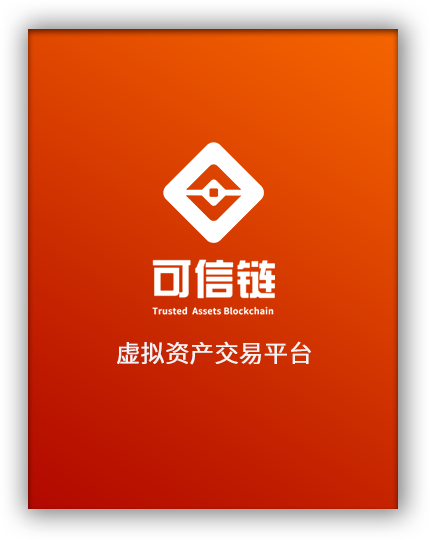
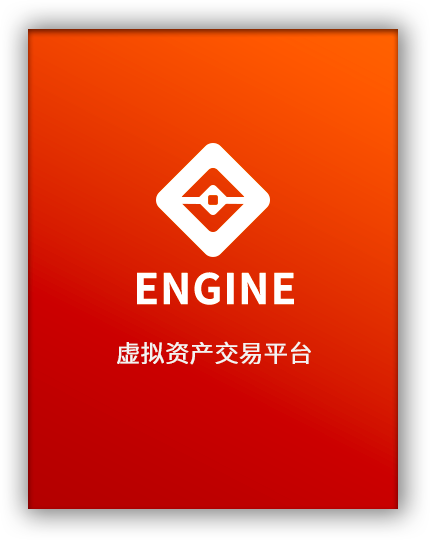
更改登录、注册、忘记密码、hearder、footer图标，更改hearder、footer样式，全项目可信链文字修改为ENGIN

Changed region(s): [[0.0605, 0.2667, 0.9372, 0.9481]]

diff --git a/src/App.vue b/src/App.vue
@@ -3,12 +3,12 @@
     <div class="head-wrap" v-if="isShowTopSearch">
       <div class="head">
         <a class="logo" href="/">
-          <p>Trusted Assets Blockchain</p>
+          <!--<p>Trusted Assets Blockchain</p>-->
         </a>
         <ul class="platform">
           <li v-for="(item,index) of toggleParam" @click="platform(index)" :class="{active:index===toggleIndex}">{{item}}</li>
         </ul>
-        <a href="/">欢迎来到 可信链 ！</a>
+        <a href="/">欢迎来到 ENGINE ！</a>
         <div class="favorite" @click="turnFavorite">
           <span class="s_text">收藏夹</span>
           <span class="s_num">{{this.$store.state.favoriteCount}}</span>
@@ -63,7 +63,7 @@
       <div class="footer">
         <div class="ft-box">
           <a href="/">
-            <p>Trusted Assets Blockchain</p>
+            <!--<p>Trusted Assets Blockchain</p>-->
           </a>
         </div>
         <div class="ft-box">
@@ -384,12 +384,12 @@
         display inline-block
         color #ffffff
         background-image: url('./common/images/logo.png');
-        background-position: top left;
+        background-position: top center;
         background-repeat: no-repeat;
-        width 200px
-        height 40px
+        width 100px
+        height 44px
         float left
-        margin-top 5px
+        margin-top 2px
         margin-left 6px
         position relative
         vertical-align top
@@ -406,10 +406,10 @@
         box-sizing border-box
         display inline-block
         text-align left
-        width 580px
+        width 680px
         height 50px
         font-size 0
-        padding-left 100px
+        //padding-left 100px
         vertical-align top
         padding-top 1px
         li {
@@ -633,7 +633,7 @@
           background-image: url('./common/images/logo_footer.png');
           background-position: top left;
           background-repeat: no-repeat;
-          width 240px
+          width 82px
           height 82px
           position relative
           p {

diff --git a/src/components/register/contract.vue b/src/components/register/contract.vue
@@ -1,9 +1,9 @@
 <template>
   <div class="container">
-    <p>可信链用户注册协议及法律说明：</p>
+    <p>ENGINE用户注册协议及法律说明：</p>
     <div class="title_notice">
-      <p>1、您在申请注册成为可信链（以下简称为：可信）用户的过程中，应当仔细阅读本协议及协议中以粗体并用下划线提示的条款，因为这些条款涉及到您的权利义务，特别是可能会明确您应当履行的义务和对您的权利有一定的限制，请您务必重点、仔细阅读并理解后再行点击同意注册。</p>
-      <p>2、当您按照页面提示流程完成注册程序后，即表明您已经过详细阅读、思考并自愿接受本协议的全部内容，成为可信链平台的“用户”。如您不同意或不理解本协议的其中任何一项条款，您应当立即停止注册程序。</p>
+      <p>1、您在申请注册成为ENGINE（以下简称为：可信）用户的过程中，应当仔细阅读本协议及协议中以粗体并用下划线提示的条款，因为这些条款涉及到您的权利义务，特别是可能会明确您应当履行的义务和对您的权利有一定的限制，请您务必重点、仔细阅读并理解后再行点击同意注册。</p>
+      <p>2、当您按照页面提示流程完成注册程序后，即表明您已经过详细阅读、思考并自愿接受本协议的全部内容，成为ENGINE平台的“用户”。如您不同意或不理解本协议的其中任何一项条款，您应当立即停止注册程序。</p>
     </div>
 
     <h2>第1条 本站服务条款的确认和接纳</h2>

diff --git a/index.html b/index.html
@@ -3,7 +3,7 @@
   <head>
     <meta charset="utf-8">
     <meta name="viewport" content="width=device-width">
-    <title>可信链-Trusted Assets Blockchain</title>
+    <title>ENGINE</title>
   </head>
   <body>
     <div id="app"></div>
